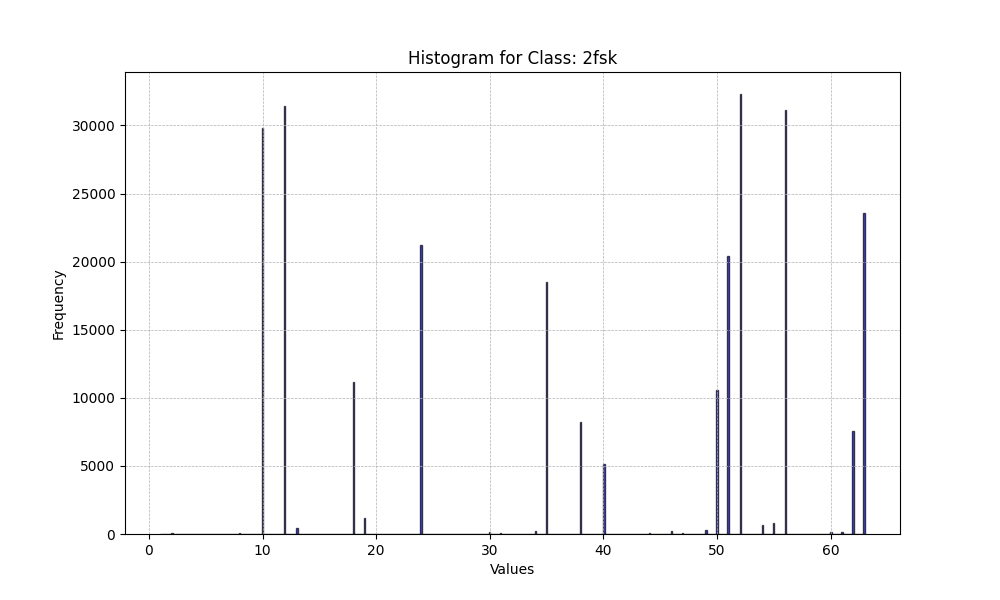
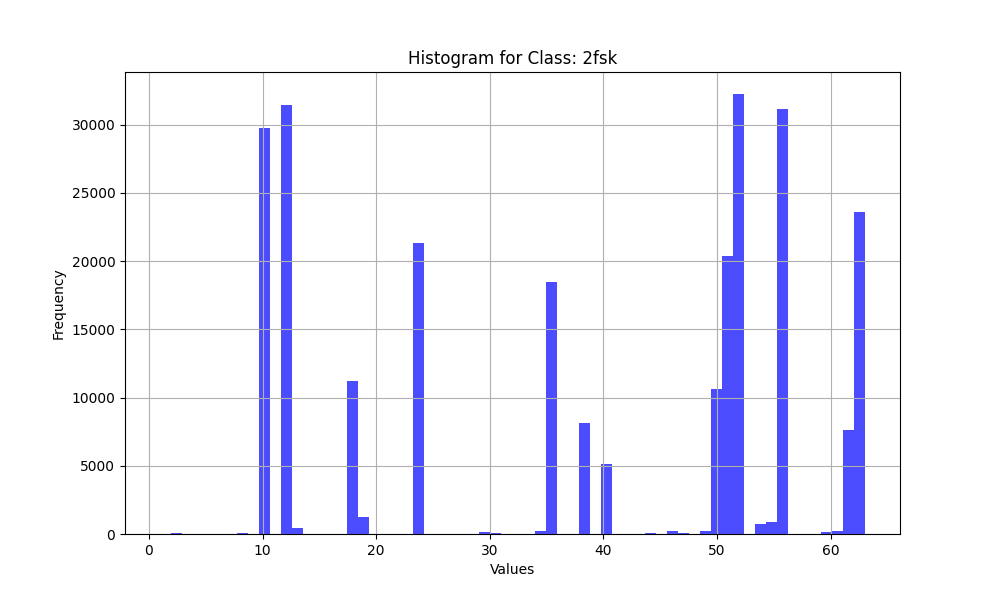
Added constellations for the vqvae reconstructions

diff --git a/run/Evaluate_models.py b/run/Evaluate_models.py
@@ -79,7 +79,7 @@ def save_torch_dataset_as_numpy(dataset, output_file):
     print(f"Dataset saved to {output_file}")
 
 
-def generate_fake_dataset(transformer_model, vqvae_model, output_file, num_labels=6, samples_per_label=1000, batch_size=128, signal_length=1024):
+def generate_fake_dataset(transformer_model, vqvae_model, output_file, num_labels=6, samples_per_label=500, batch_size=128, signal_length=1024):
     """
     Generate a fake dataset using a transformer model and save it as a NumPy array.
     
@@ -106,7 +106,7 @@ def generate_fake_dataset(transformer_model, vqvae_model, output_file, num_label
                 label_tensor,
                 max_new_tokens=signal_length // 2
             )
-            fake_indices.append(new_indices[:,1:])
+            fake_indices.append(new_indices[:,1:].cpu().numpy())
             # Decode the generated indices into signals
             reconstructions = vqvae_model.decode(vqvae_model.codebook.lookup(new_indices[:, 1:]))
 
@@ -117,10 +117,7 @@ def generate_fake_dataset(transformer_model, vqvae_model, output_file, num_label
     # Convert the list of samples into a NumPy array
     final_dataset = np.array(all_samples)
     print(f"Generated dataset shape: {final_dataset.shape}")
-
-    # Save the dataset as a NumPy file
-    np.save(output_file, final_dataset)
-    print(f"Dataset saved to {output_file}")
+    
     return fake_indices
 
 def plot_codebook_histograms(indices, path, num_classes=6, num_tokens=512):
@@ -142,11 +139,15 @@ def plot_codebook_histograms(indices, path, num_classes=6, num_tokens=512):
 
     for i, class_indices in enumerate(indices_per_class):
         plt.figure(figsize=(10, 6))
-        plt.hist(class_indices, bins=50, color='blue', alpha=0.7)
+        plt.hist(class_indices, bins=64, color='blue', alpha=0.7)
         plt.title(f'Histogram for Class: {classes[i]}')
         plt.xlabel('Values')
         plt.ylabel('Frequency')
         plt.grid(True)
+        
+        outputpath = os.path.join(path, f"Histogram_Class_{classes[i]}.png")
+        plt.savefig(outputpath)
+        plt.close()
 
 
 
@@ -279,8 +280,8 @@ if __name__ == "__main__":
     #     signal_length=1024
     # )
     # plot_codebook_histograms(fake_indices_GPT2,GPT2_Histograms_Path)
-    # #metrics = compute_metrics(real_dataset_path, fake_dataset_path_GPT2)
-    # #print("Computed Metrics GPT2:", metrics)
+    # metrics = compute_metrics(real_dataset_path, fake_dataset_path_GPT2)
+    # print("Computed Metrics GPT2:", metrics)
 
 
     # fake_indices_MONAI = generate_fake_dataset(
@@ -292,8 +293,8 @@ if __name__ == "__main__":
     #     signal_length=1024
     # )
     # plot_codebook_histograms(fake_indices_MONAI,MONAI_Histograms_Path)
-    # #metrics = compute_metrics(real_dataset_path, fake_dataset_path_MONAI)
-    # #print("Computed Metrics MONAI:", metrics)
+    # metrics = compute_metrics(real_dataset_path, fake_dataset_path_MONAI)
+    # print("Computed Metrics MONAI:", metrics)
 
 
     indices = quantize_dataset(VQVAE, ds_test)

diff --git a/run/train_MonaiTransformer.py b/run/train_MonaiTransformer.py
@@ -124,7 +124,7 @@ if __name__ == "__main__":
     x_train_loader = DataLoader(x_train,batch_size=batch_size)
     y_train_loader = DataLoader(y_train,batch_size=batch_size)
 
-    epochs = 500
+    epochs = 10
     learning_rate = 1e-5
     m = m.to(device)
 
